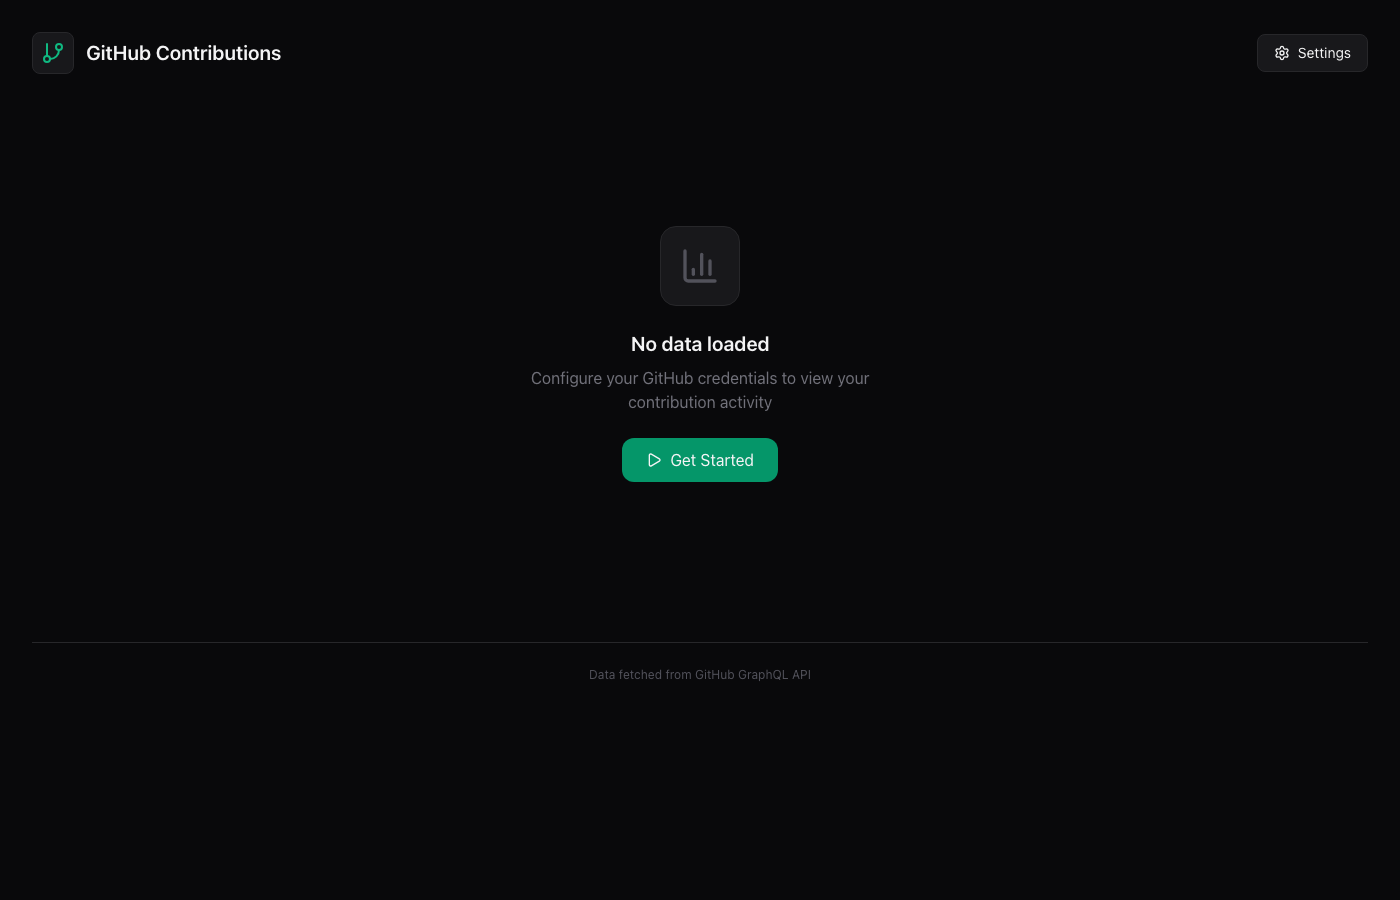
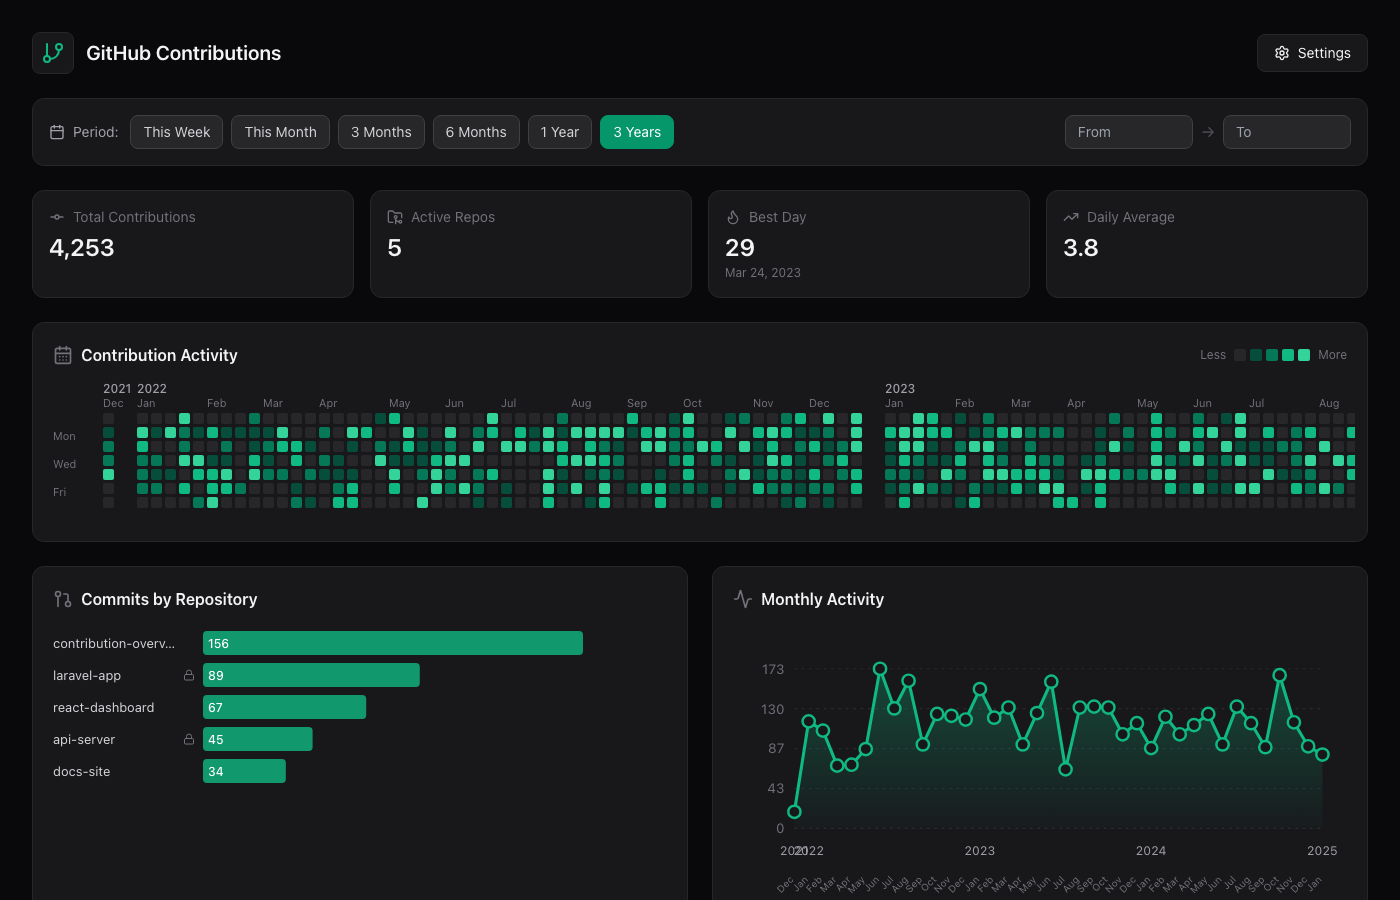
Update screenshot with data, use consistent badge style

diff --git a/README.md b/README.md
@@ -1,7 +1,7 @@
 # GitHub Contributions Dashboard
 
 [![Try it Live](https://img.shields.io/badge/Try_it_Live-→-brightgreen?style=for-the-badge)](https://helgesverre.github.io/contribution-overview/)
-[![License: MIT](https://img.shields.io/badge/License-MIT-blue.svg)](LICENSE)
+[![License: MIT](https://img.shields.io/badge/License-MIT-blue?style=for-the-badge)](LICENSE)
 
 A slick, single-page dashboard that visualizes your GitHub contributions with heatmaps, charts, and trend analysis. No build step, no backend, just open and go.
 
